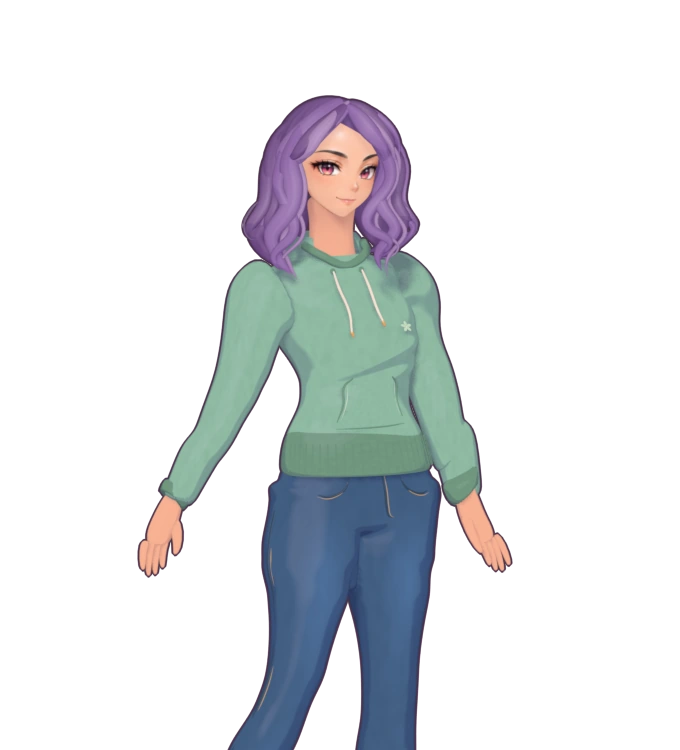
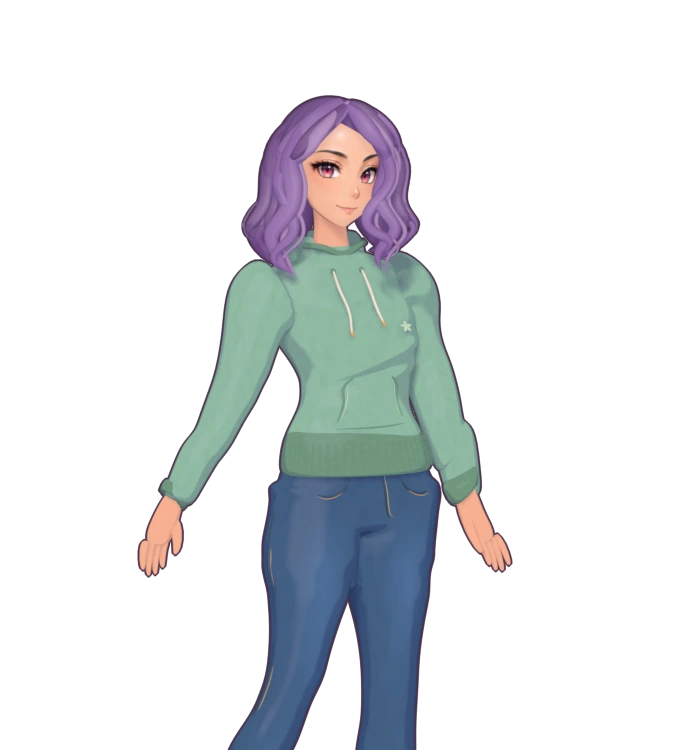
Refine wardrobe face, neck, and neckline proportions

Changed region(s): [[0.4324, 0.2147, 0.5559, 0.368], [0.4632, 0.2147, 0.4941, 0.2453]]

diff --git a/docs/avatar-3d.html b/docs/avatar-3d.html
@@ -7,7 +7,7 @@
 <meta name="description" content="같은 코디의 2D 원화와 3D 모델 렌더를 비교해 보세요.">
 <title>캐릭터 제작 시안 · 알찬끼</title>
 <link rel="stylesheet" href="./avatar-3d.css">
-<script type="module" src="./avatar-3d.mjs?v=9"></script>
+<script type="module" src="./avatar-3d.mjs?v=10"></script>
 </head>
 <body>
 <main>

diff --git a/scripts/avatar-studio/render.py b/scripts/avatar-studio/render.py
@@ -263,6 +263,7 @@ def face(skin, gold):
     for j in range(levels):
         v = 4 + (452-4)*j/(levels-1)
         left, right, thick = cross_section(v)
+        lower_face = smooth_range(v,188,430)
         for k in range(count):
             a = k*2*pi/count
             u = (right+left)/2 + sin(a)*(right-left)/2
@@ -273,7 +274,8 @@ def face(skin, gold):
             orbital = -.017*exp(-((u-165)/55)**2 - ((v-246)/35)**2)
             chin = .066*smooth_range(v,381,452)
             d = thick*cos(a) + (tip+bridge+cheek+orbital)*frontal + chin
-            vertices.append(portrait_point((u-181)*.00228, d, 5.663-v*.00222))
+            vertices.append(portrait_point((u-181)*.00228*(1+.045*lower_face),
+                                           d, 5.663-v*.00222-.088*lower_face))
             # UVs align each level with the source rows. The three-quarter
             # painted features wrap into the skin colour at the temples.
             uvs.append(((124 + min(right-1.5, max(left+1.5, u)))/width, 1-(22+v)/height))
@@ -419,7 +421,9 @@ def hair(materials, hatted=False):
             (.400,-.080,4.471,.130,.034),(.475,-.041,4.353,.092,.024),
             (.441,.003,4.228,.044,.016),(.366,.055,4.217,.002,.003)]
     for side in (-1,1):
-        drape = [(side*x,d,z+(.05 if side>0 else 0)*i/7,w,t)
+        inset = .038 if side < 0 else 0
+        lift = .05 if side > 0 else 0
+        drape = [(side*(x-inset*exp(-((z-4.58)/.24)**2)),d,z+lift*i/7,w,t)
                  for i,(x,d,z,w,t) in enumerate(nape)]
         hair_lock("Hair behind the jaw and collar",drape,lock,(deep,violet,blush),side*.61)
 
@@ -653,12 +657,12 @@ def hands(skin):
     neck_mat = skin.copy()
     neck_mat.name = "Skin under the jaw"
     neck_mat["studio_surface"] = "neck"
-    neck = rings("Taper from jaw to collar",[(0,.015,4.25,.187,.165),(-.006,-.014,4.40,.152,.154),
-          (-.007,-.024,4.51,.138,.144),(0,-.033,4.64,.152,.154),
-          (0,-.039,4.79,.198,.174)],neck_mat)
+    neck = rings("Taper from jaw to collar",[(0,.016,4.25,.171,.154),(-.006,-.012,4.40,.124,.133),
+          (-.006,-.013,4.53,.099,.111),(-.003,-.016,4.65,.108,.120),
+          (.003,-.019,4.77,.138,.138),(.009,-.020,4.84,.157,.144)],neck_mat)
     warm_shadow = linear("b77b78")
     color_attributes(neck,"Neck and throat tint",[
-        tuple(c+(shadow-c)*(.40*smooth_range(v.co.z,4.47,4.77))
+        tuple(c+(shadow-c)*(.46*smooth_range(v.co.z,4.53,4.77))
               for c,shadow in zip(skin.diffuse_color,warm_shadow))
         for v in neck.data.vertices
     ])
@@ -740,7 +744,8 @@ def garment_front(obj):
 
 
 def hoodie(fabric, rib, seam, lining, gold):
-    body = rings("Mint fleece with diagonal folds",stitched_rows(TORSO),fabric,
+    rows = TORSO + [(0,-.011,4.420,.154,.149),(0,-.015,4.443,.121,.123)]
+    body = rings("Mint fleece with diagonal folds",stitched_rows(rows),fabric,
                  cap=False,sculpt=tailored_fold,smooth=1)
     surface = garment_front(body)
     pocket = [(3.438,.235),(3.467,.242),(3.530,.222),(3.613,.198),(3.658,.150)]
@@ -785,18 +790,18 @@ def hoodie(fabric, rib, seam, lining, gold):
     ring = [(0,.066,4.22,.271,.234),(0,.086,4.33,.269,.235),
             (0,.115,4.454,.272,.225),(0,.13,4.496,.240,.207)]
     rings("Folded hood behind neck",ring,fabric,start=.64,stop=2*pi-.64,cap=False)
-    strand("Bound hood edge",[(.219,-.039,4.447),(.160,-.168,4.398),
-           (0,-.186,4.340),(-.158,-.168,4.400),(-.219,-.039,4.450)],.026,rib)
+    strand("Bound hood edge",[(.219,-.039,4.447),(.138,-.131,4.443),
+           (0,-.157,4.400),(-.138,-.131,4.443),(-.219,-.039,4.450)],.020,rib)
 
 
 def coat(fabric, lapel, inner, gold, thread):
     rows = [(x,y,z,w*.93,d*.95) for x,y,z,w,d in TORSO] + [
-        (0,-.002,4.433,.166,.157),(0,-.021,4.452,.163,.157)]
+        (0,-.008,4.433,.158,.147),(0,-.016,4.467,.131,.131)]
     rings("Cream knit with pressed neckline", stitched_rows(rows), inner, cap=False,
           sculpt=tailored_fold, smooth=1)
-    rings("Folded knit collar around neck", [(0,-.020,4.420,.169,.159),
-          (0,-.021,4.453,.170,.159),(0,-.023,4.482,.164,.157),
-          (0,-.023,4.487,.143,.143)], inner, cap=False, smooth=1)
+    rings("Folded knit collar around neck", [(0,-.016,4.446,.155,.147),
+          (0,-.016,4.474,.139,.140),(0,-.017,4.504,.130,.127),
+          (0,-.017,4.509,.115,.116)], inner, cap=False, smooth=1)
     rows = [
         (0,.067,2.13,.672,.473),(0,.067,2.158,.674,.477),(0,.069,2.305,.659,.461),
         (0,.062,2.64,.609,.390),(0,.053,3.01,.528,.336),(0,.043,3.39,.464,.301),

diff --git a/scripts/avatar-studio/STYLE-GUIDE.md b/scripts/avatar-studio/STYLE-GUIDE.md
@@ -7,6 +7,7 @@
 - 전신은 모자를 벗긴 상태에서 정수리와 발바닥 높이를 맞춰 비교한다. 같은 화면에서 허리선과 가랑이 높이, 무릎에서 발목까지의 흐름을 확인한다. 몸판과 데님의 세로 비율은 `SILHOUETTE_HEIGHTS`에서 함께 맞추고, 손은 소매와 함께 움직인다. 머리 크기를 조정할 때는 앞머리와 모자도 같이 움직여 목과 챙의 겹침을 확인한다.
 - 머리카락은 가르마에서 출발해 관자놀이와 어깨를 따라 크게 나눈다. 좌우 가닥의 끝 높이와 방향을 다르게 두고, 가닥끼리 겹치는 곳과 사이로 배경이 보이는 곳을 모두 만든다. 큰 곡선에는 가는 보조 가닥과 색선을 얹는다. 눈매와 볼을 드러내고 베레모 아래에서는 뿌리와 앞머리를 챙 안쪽으로 눌러 맞춘다.
 - 라일락 웨이브는 가까운 쪽 관자놀이에서 시작하는 옆머리가 귀를 덮고, 턱 뒤의 어두운 뒷머리가 어깨로 이어진다. 전신과 머리 확대에서 귀 쪽 피부와 턱 옆의 투명한 틈이 드러나는지 확인한다. 현재 카메라의 두 구간을 브라우저 검사에 포함한다.
+- 목의 중간은 턱 아래와 옷깃에 닿는 부위보다 가늘게 잡는다. 턱·목·옷깃은 같은 배율에서 같이 확인한다. 현재 후디와 코트는 브라우저 검사에서 턱 아래의 드러난 목 폭도 비교한다.
 - 전체 외곽선은 짙은 자주색으로 두고 내부 주름과 봉제선은 주변 원단색에 가깝게 잡는다. 얼굴은 기존 눈·입 표현이 읽히도록 그늘 경계를 완만하게 한다. 머리의 하이라이트는 가닥이 굽는 구간에 짧게 모으며, 넓은 천에는 큰 그림자 면을 먼저 배치한다.
 - 주름에는 천을 당기거나 접는 이유가 있어야 한다. 손목과 무릎에서는 관절의 굽힘에 따라 주름이 모이고, 허리와 코트 자락에서는 천이 걸리는 지점부터 주름이 펼쳐진다. 확대에서 작은 무늬가 주름과 같은 방향으로 이어지는지 본다.
 
